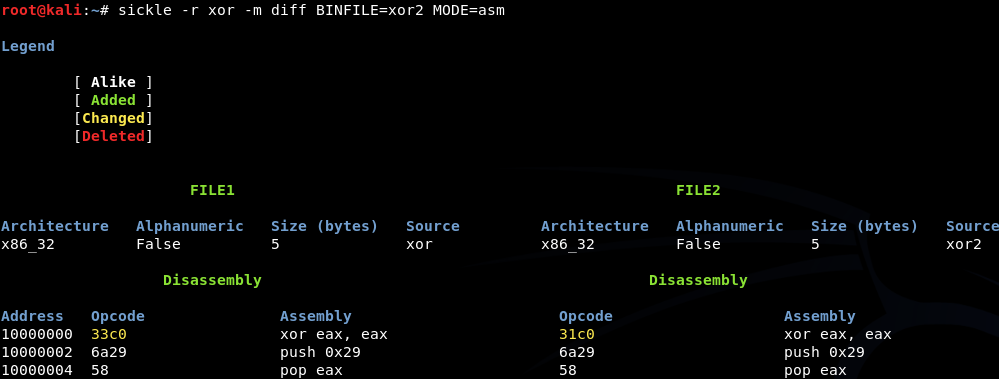
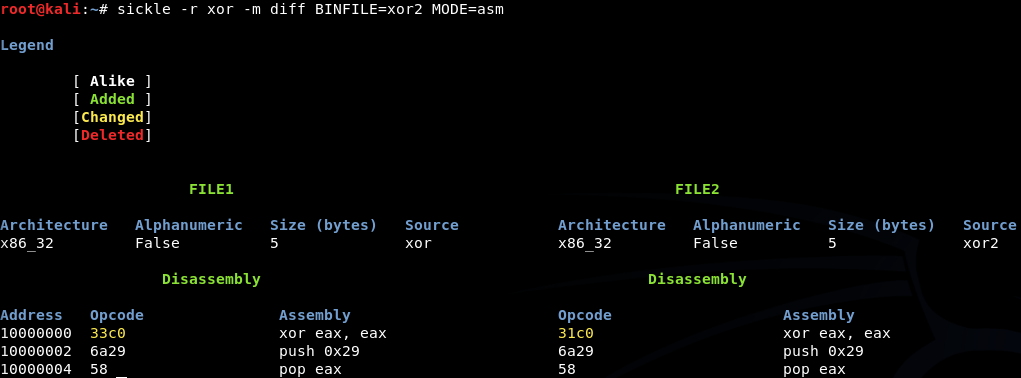
improvements

diff --git a/Sickle/modules/dev/diff.py b/Sickle/modules/dev/diff.py
@@ -89,15 +89,11 @@ class module():
 
     print(colors.BOLD, colors.GREEN)
     tables = f"{ansi_ljust('FILE1', 26, ' ', 'l')}{ansi_ljust('FILE2', 54, ' ', 'l')}"
-    print(tables)
-    print(colors.BLUE)
+    print(f"{tables}{colors.BLUE}\n")
     
-    print("Architecture\tAlphanumeric\tSize (bytes)\tSource\tArchitecture\tAlphanumeric\tSize (bytes)\tSource{:s}".format(colors.END).expandtabs(15))
-    print("{:s}\t{}\t{:d}\t{:s}\t{:s}\t{}\t{:d}\t{:s}".format(
-      self.arch, alpha, original[2], original[0],
-      self.arch, alpha2, modified[2], modified[0]
-      ).expandtabs(15))
-    
+    print(f"{'Architecture':<15}{'Alphanumeric':<15}{'Size (bytes)':<15}{'Source':<17}{'Architecture':<15}{'Alphanumeric':<15}{'Size (bytes)':<15}{'Source'}{colors.END}")
+    print(f"{self.arch:<15}{alpha:<15}{original[2]:<15}{original[0]:<17}{self.arch:<15}{alpha2:<15}{modified[2]:<15}{modified[0]}")
+
     print(colors.BOLD, colors.GREEN)
     tables = f"{ansi_ljust('Disassembly', 29, ' ', 'l')}{ansi_ljust('Disassembly', 54, ' ', 'l')}"
     print(tables)
@@ -196,14 +192,12 @@ class module():
 
   # check_alpha: check if the buffer is completely alphanumeric
   def check_alpha(self, shellcode):
+    for i in range(len(shellcode)):
+      test = str.isalpha(chr(shellcode[i]))
+      if test == False:
+        return "False"
 
-    alpha = None
-    try:
-      shellcode.decode('ascii')
-    except:
-      alpha = False
-
-    return alpha
+    return "True"
 
   # raw_repr: print both binary files as strings escaping
   # non-printable characters
